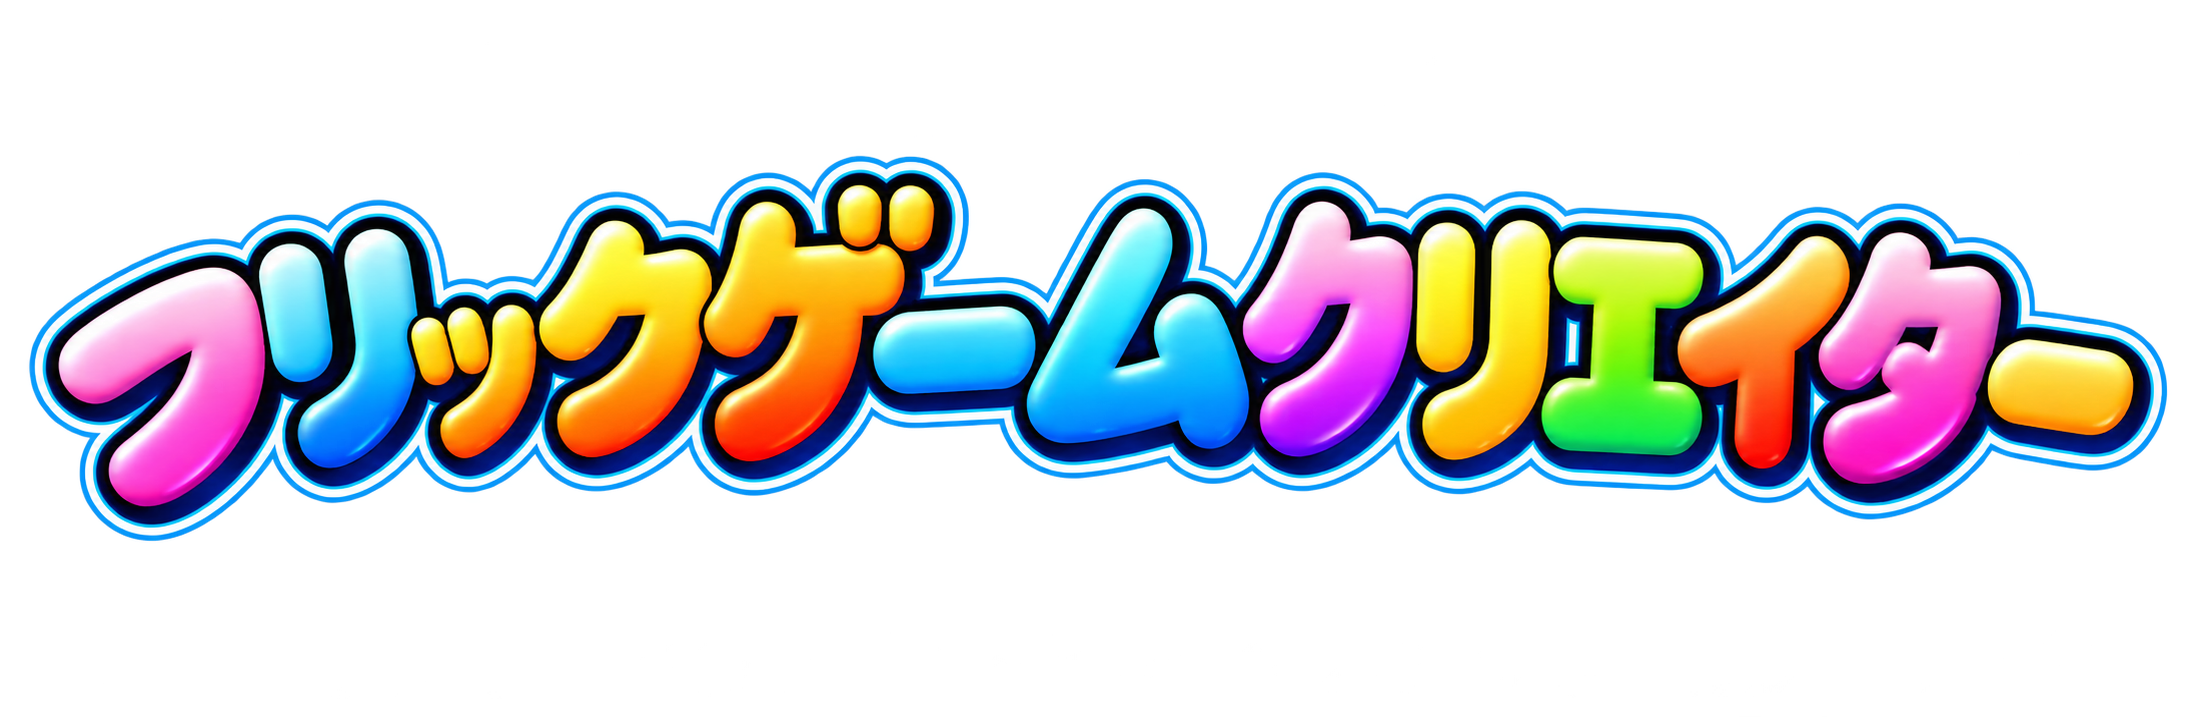
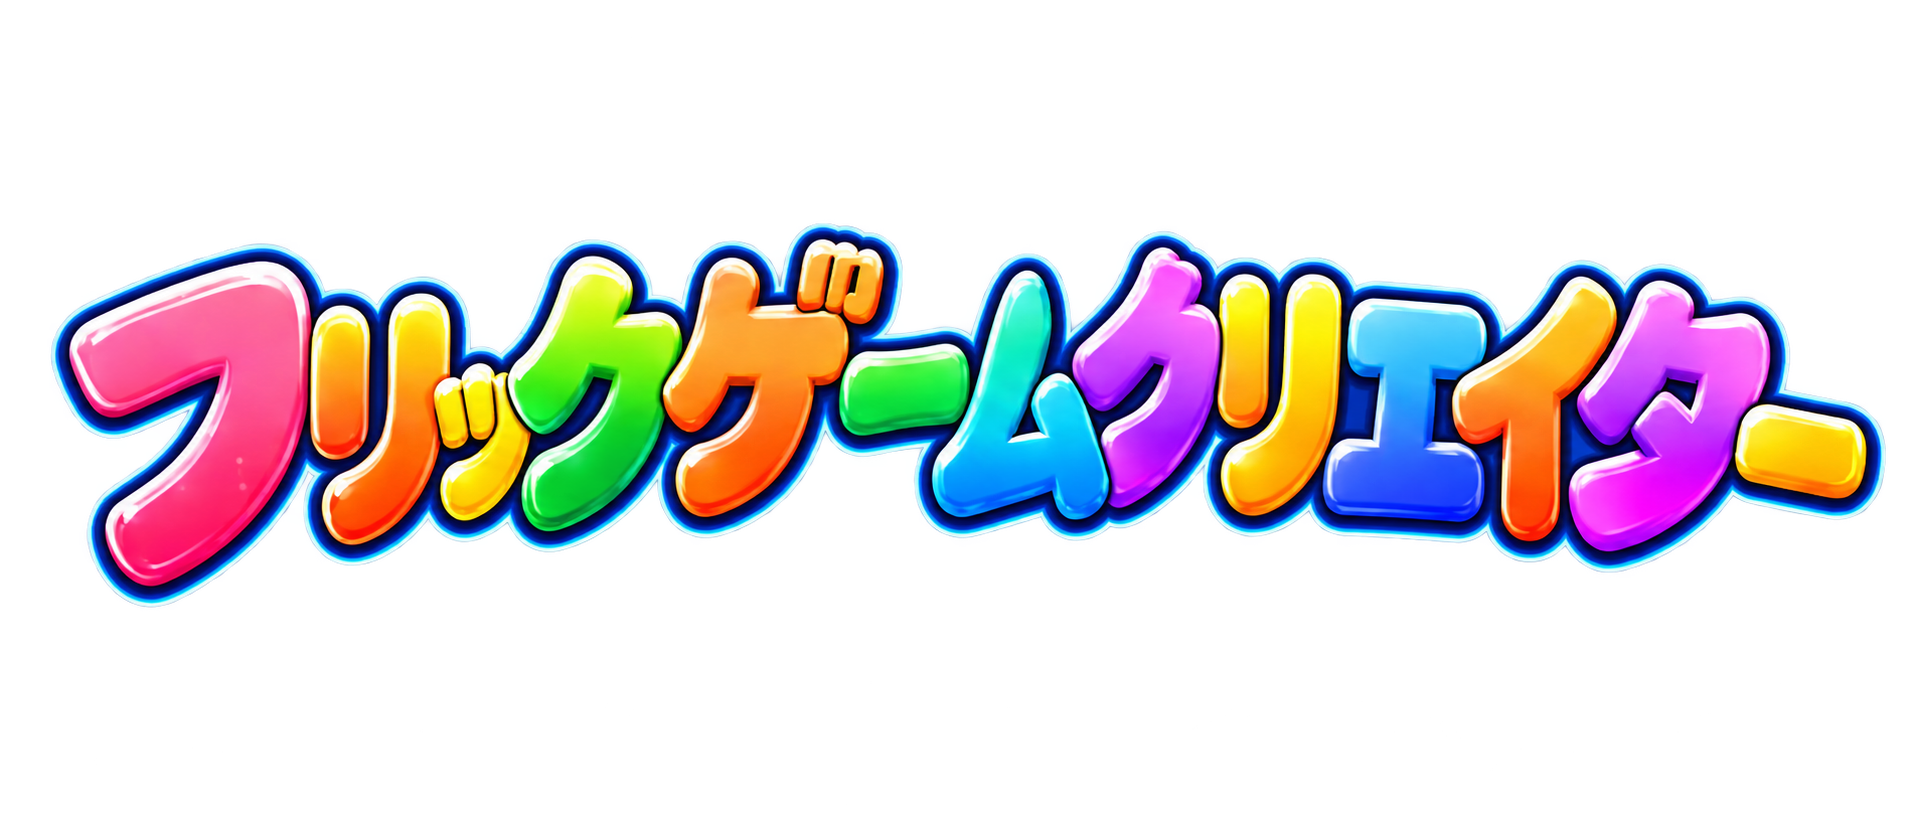
ゲームクリエイターの 題名の 絵を 新しい 切りぬきに 差しかえ
Claude-Session: https://claude.ai/code/session_011SmHRfS48asPXBze6LzYiU

diff --git a/gamedev/index.html b/gamedev/index.html
@@ -423,11 +423,11 @@ ruby.nm rt{font-size:10px;font-weight:500;color:var(--muted);letter-spacing:.02e
          読みあげソフトには かくして、下の <h1> が 名前を言う -->
     <div class="logo">
       <img class="logo-mark" src="logo-mark2.webp?v=1" alt="" width="144" height="144" aria-hidden="true">
-      <img class="logo-word" src="logo-word.webp?v=3" alt="" width="900" height="163" aria-hidden="true">
+      <img class="logo-word" src="logo-word.webp?v=4" alt="" width="900" height="189" aria-hidden="true">
       <button class="prof-btn" id="prof-btn" aria-label="マイページ"><span class="nm"></span><span class="tile sm sk-card" id="prof-tile">?</span></button>
     </div>
     <h1 class="sr-only">フリックゲームクリエイター</h1>
-    <img class="hero" src="hero.webp?v=3" alt="フリックゲームクリエイター。ゲームを 作る 部屋で 男の子と 犬が 手を のばして 笑っている 絵。まわりに 7つの 旅の ことばが ならんでいる" width="1536" height="1024">
+    <img class="hero" src="hero.webp?v=4" alt="フリックゲームクリエイター。ゲームを 作る 部屋で 男の子と 犬が 手を のばして 笑っている 絵。まわりに 7つの 旅の ことばが ならんでいる" width="1536" height="1024">
     <p class="lead" id="lead">世界と日本の名所・地名・首都を、ひらがなでどれだけ速く打てるか。10問のトータルタイムで勝負しながら、旅に出よう。</p>
     <div class="modes" id="modes"></div>
     <div id="kabu-panel"></div><!-- 株式フリック旅行だけ: 集めた会社・称号(kabu/kabu.js) -->

diff --git a/tools/build_games.py b/tools/build_games.py
@@ -188,7 +188,7 @@ GAMES = {
     #   絵(2026-09-29): けいくんの ChatGPT の 絵。題名は 絵と 同じ「フリックゲームクリエイター」。題名は tools/gamedev/logo_cut.py(GrabCut)。
     #   ⚠ 1回目の 絵は 見本の ことばが AI旅行の ことば(ぷろぐらむ・ばぐ・てすと …)・ゲームエンジンの ロゴに そっくり・4択に 正解が 無い ので 入れず、けいくんに 直してもらった
     "gamedev": dict(name="フリックゲームクリエイター", modes="GAMEDEV", kinds=set(), color="#7048e8", hero=True, logo=True,
-                    art=dict(word=(900, 163), hero=(1536, 1024), alt="フリックゲームクリエイター。ゲームを 作る 部屋で 男の子と 犬が 手を のばして 笑っている 絵。まわりに 7つの 旅の ことばが ならんでいる", iconv=1, wordv=3),
+                    art=dict(word=(900, 189), hero=(1536, 1024), alt="フリックゲームクリエイター。ゲームを 作る 部屋で 男の子と 犬が 手を のばして 笑っている 絵。まわりに 7つの 旅の ことばが ならんでいる", iconv=1, wordv=4),
                     lead="ゲームの きほん・考えて 決める・うごかす しくみ・絵と 音・作る 道具・直して 仕上げる・みんなに とどける・コードと 作りかたの ことばを、ひらがなで フリック入力。打つと その ことばの 意味と、どの 仕事の 人の ことばか・しくみ図の どこに あるのかが 出るよ。あそぶ 人でも 知っている ことばから、ゲーム会社の 現場で 使う プロの ことばまで 4段。4択クイズも できるよ。",
                     how="表示された ひらがなを、そのまま打ち写してね。1回は かならず 10問。どのステージも いつも同じ10問なので、タイムをくらべられるよ。⌨ コードと作りかたの 旅では、「たとえば」に 短い コードの 見本も 出るよ。ゲームは 紙と えんぴつでも 作れるよ。まずは 小さく 作って ためしてみよう。",
                     rule="ルール：予測変換は使わずに、自分の指で打ち切ろう。あそぶほど、ゲームを 作る ことばと しくみが つながって 見えてくるよ。"),
